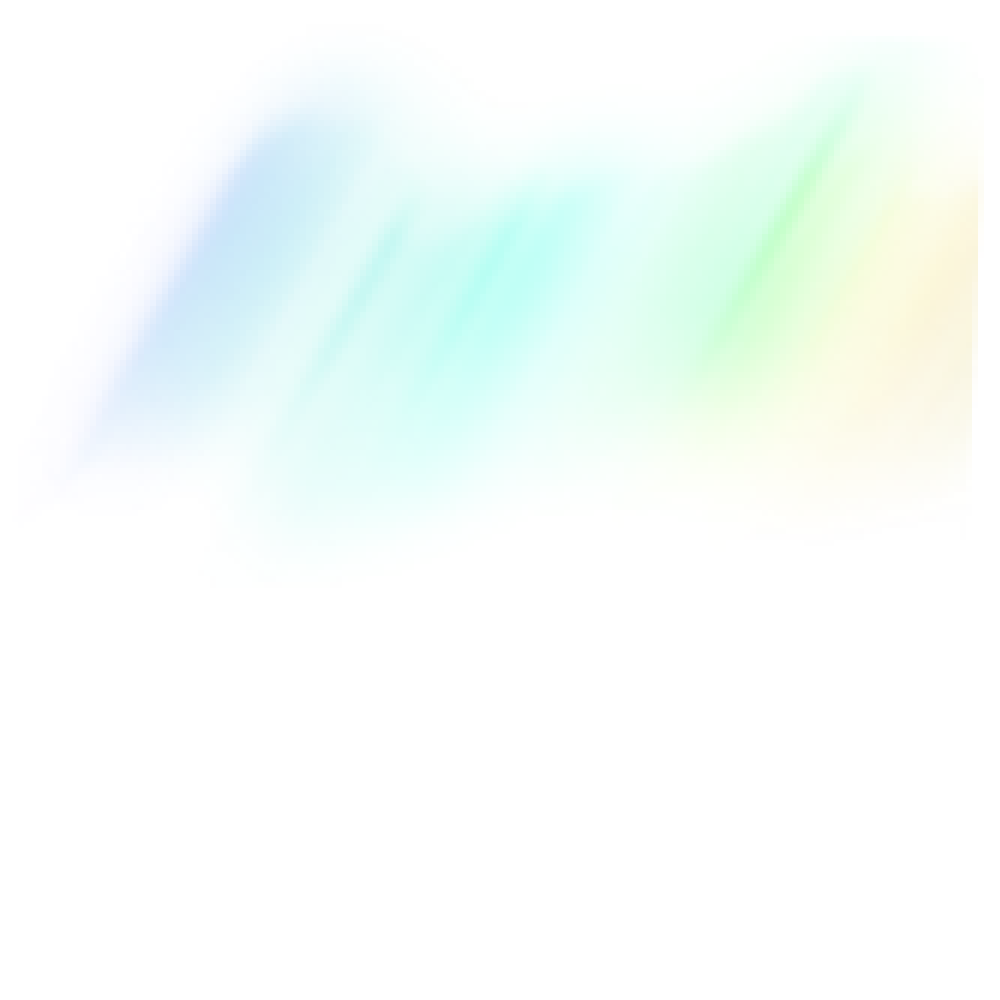
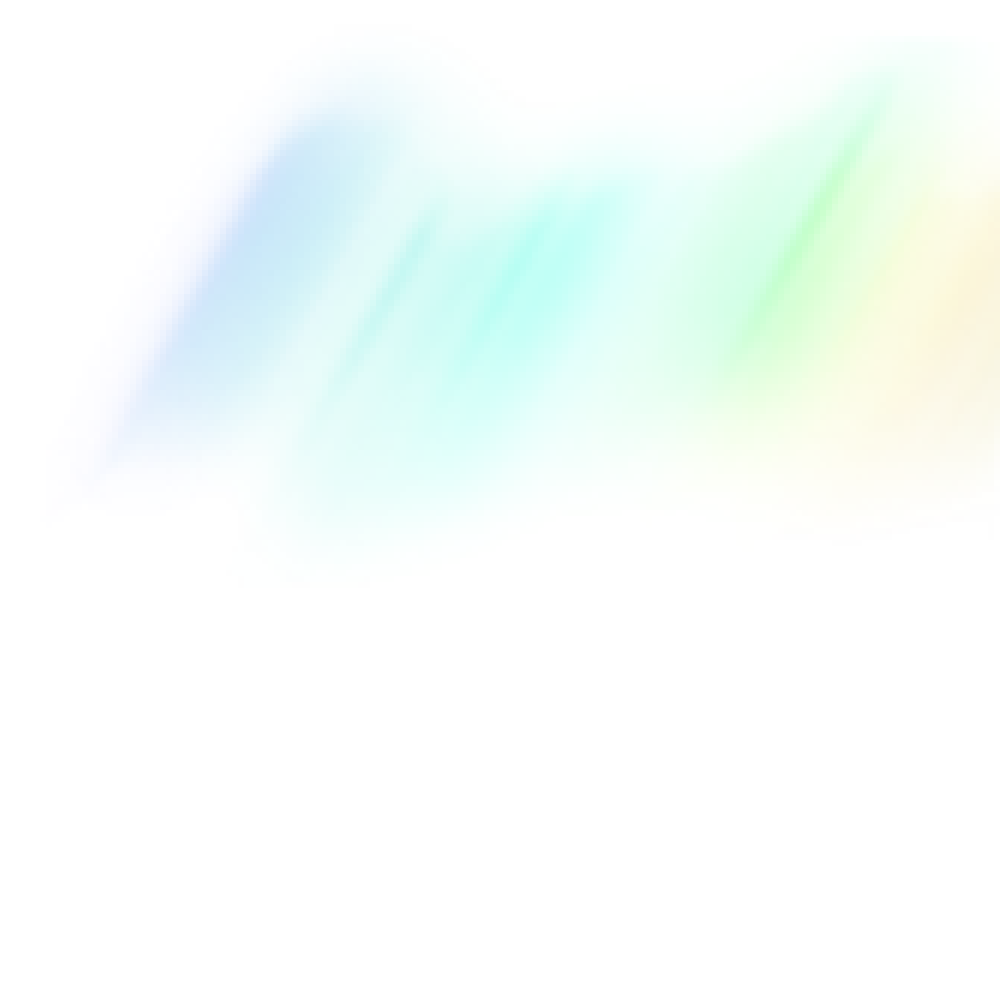
borealis updates

diff --git a/effects/borealis.js b/effects/borealis.js
@@ -1,11 +1,10 @@
 const canvasBorealis = document.getElementById("canvasBorealis");
 const ctxBorealis= canvasBorealis.getContext("2d");
 
-canvasBorealis.width = 100;
-canvasBorealis.height = 100;
-
 var borealis = new Image();
-borealis.src = "images/borealis test2.png"
+// borealis.src = "images/borealis test.png"
+borealis.src = "images/borealis test4.png"
+// borealis.src = "images/borealis test2.png"
 
 var borealisActive = false;
 
@@ -21,7 +20,12 @@ var spriteHeightBorealis = borealis.height/rowsBorealis;
 var xBorealis = 0
 var yBorealis = 0
 
+ctxBorealis.globalAlpha = 0.1;
+// ctxBorealis.globalAlpha = 1
+
 function animateBorealis() {
+    canvasBorealis.width = 100;
+    canvasBorealis.height = 100;
     if (borealisActive) {
         ctxBorealis.clearRect(0,0,canvasBorealis.width,canvasBorealis.height);
         requestAnimationFrame(animateBorealis);
@@ -42,7 +46,10 @@ function toggleBorealis() {
     borealisActive = !borealisActive;
         if (borealisActive) {
         console.log('borealis on')
-        animateBorealis();
+        // animateBorealis();
+        canvasBorealis.width = 1000
+        canvasBorealis.height = 1000
+        ctxBorealis.drawImage(borealis,0,0,canvasBorealis.width, canvasBorealis.height)
     } else {
         console.log('borealis off')
         ctxBorealis.clearRect(0,0,canvasBorealis.width,canvasBorealis.height);    

diff --git a/canvas.js b/canvas.js
@@ -60,8 +60,8 @@ document.getElementById('canvasBackground').onmouswheel = function(event){
 }
 
 if (currentImage === null) {
-  currentImage = 'none';
-  // currentImage = 'clouds'
+  // currentImage = 'none';
+  currentImage = 'clouds'
   // currentImage = 'moreNight';
   // currentImage = 'fullNight'
   // currentImage = 'halfNight';
@@ -89,7 +89,6 @@ function drawImages() {
         ctxFade.clearRect(0,0,canvasFade.width,canvasFade.height);
         console.log('switched')
       }
-
   }
 
   else if (currentImage === 'day') {
